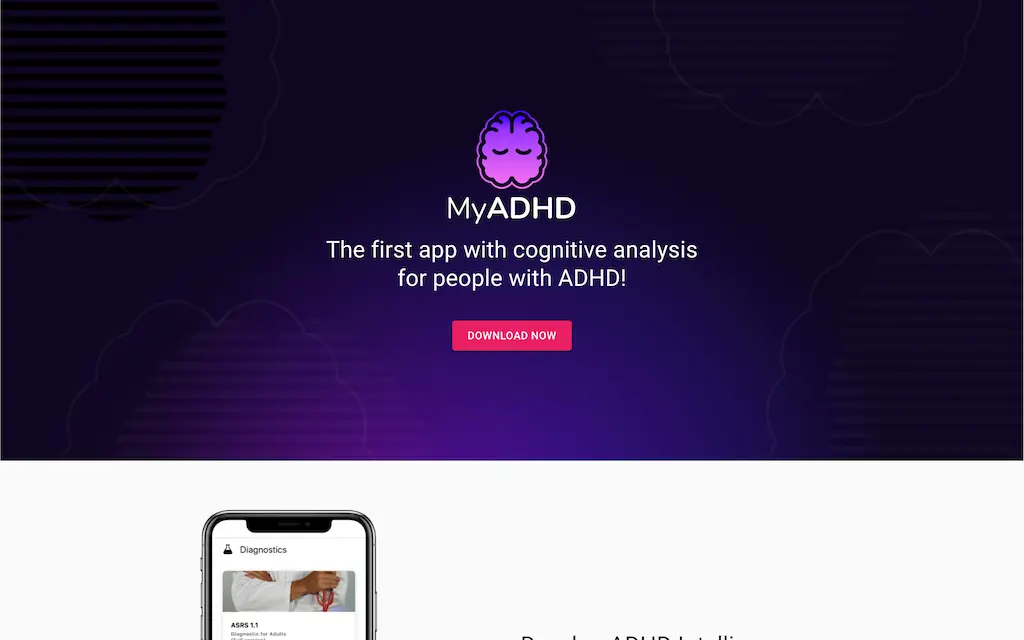
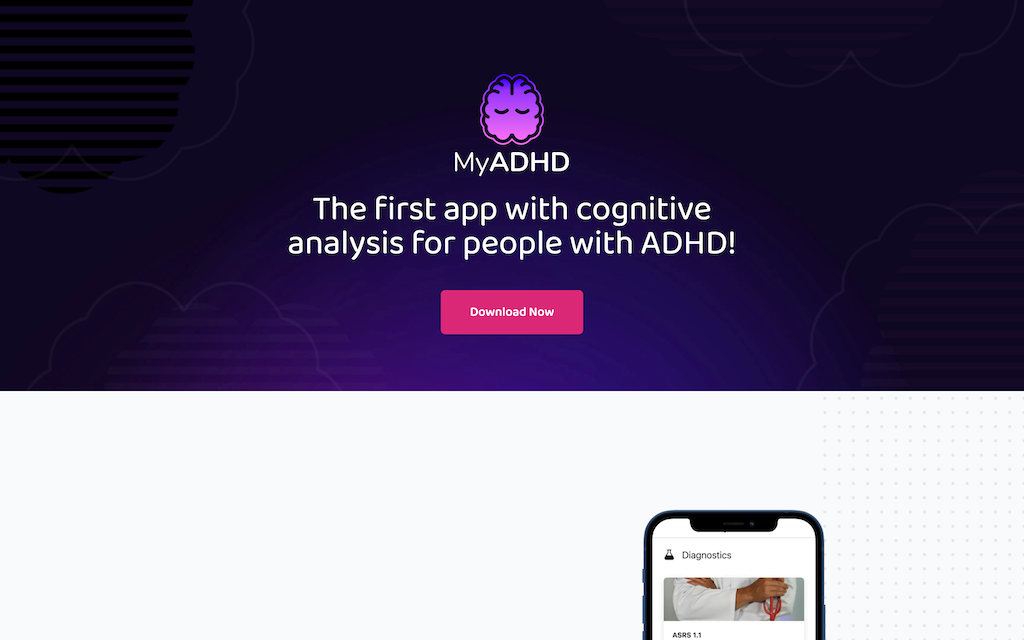
feat: update theme colors

diff --git a/components/Projects/Projects.jsx b/components/Projects/Projects.jsx
@@ -9,7 +9,10 @@ export default function Projects() {
   return (
     <section data-test="projects-section" id="projects-section">
       <h2 className="text-3xl text-center font-medium mb-8">My Projects</h2>
-      <div className="grid grid-cols-1 md:grid-cols-2 gap-4 place-items-center">
+      <div
+        role="list"
+        className="group grid grid-cols-1 md:grid-cols-2 gap-4 place-items-center"
+      >
         {projectsData.map((item, index) => (
           <a
             href={`https://${item.url}`}

diff --git a/tailwind.config.js b/tailwind.config.js
@@ -1,6 +1,7 @@
 const colors = require("tailwindcss/colors");
 
 module.exports = {
+  mode: "jit",
   purge: ["./pages/**/*.{js,ts,jsx,tsx}", "./components/**/*.{js,ts,jsx,tsx}"],
   darkMode: false,
   theme: {
@@ -16,7 +17,7 @@ module.exports = {
     },
     colors: {
       gray: colors.gray,
-      pink: colors.pink
+      green: colors.green
     }
   },
   variants: {

diff --git a/components/Layout/Layout.module.css b/components/Layout/Layout.module.css
@@ -11,5 +11,5 @@
 }
 
 .social ul li:hover {
-  @apply transition duration-200 ease-in-out transform hover:scale-125 text-pink-400;
+  @apply transition duration-200 ease-in-out transform hover:scale-125 text-green-600;
 }

diff --git a/components/Projects/Projects.module.css b/components/Projects/Projects.module.css
@@ -1,4 +1,4 @@
 .card {
   @apply w-auto transition duration-500 ease-in-out transform hover:scale-105;
-  max-height: 97%;
+  max-height: 98%;
 }
